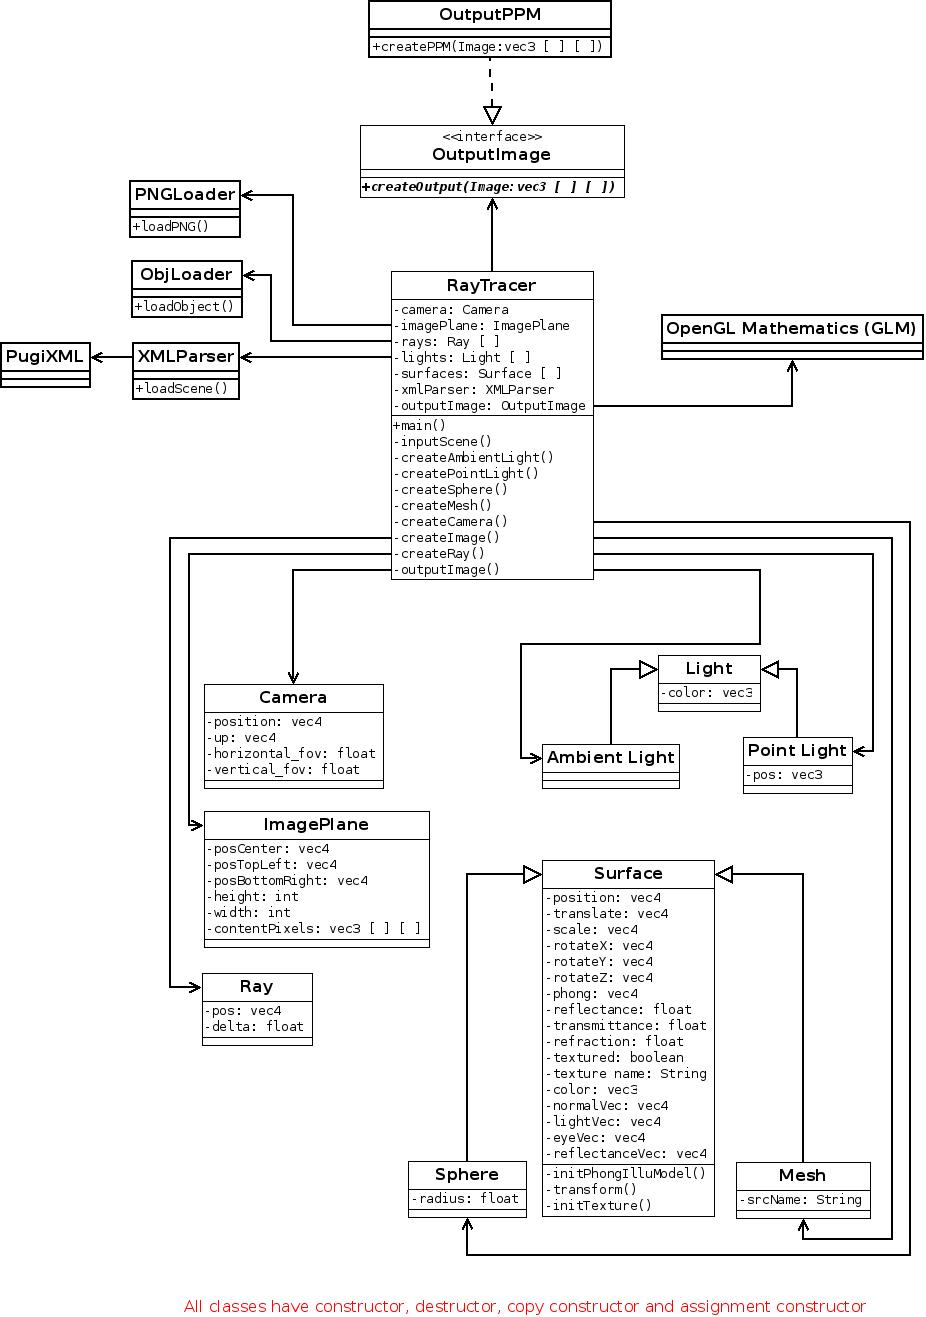
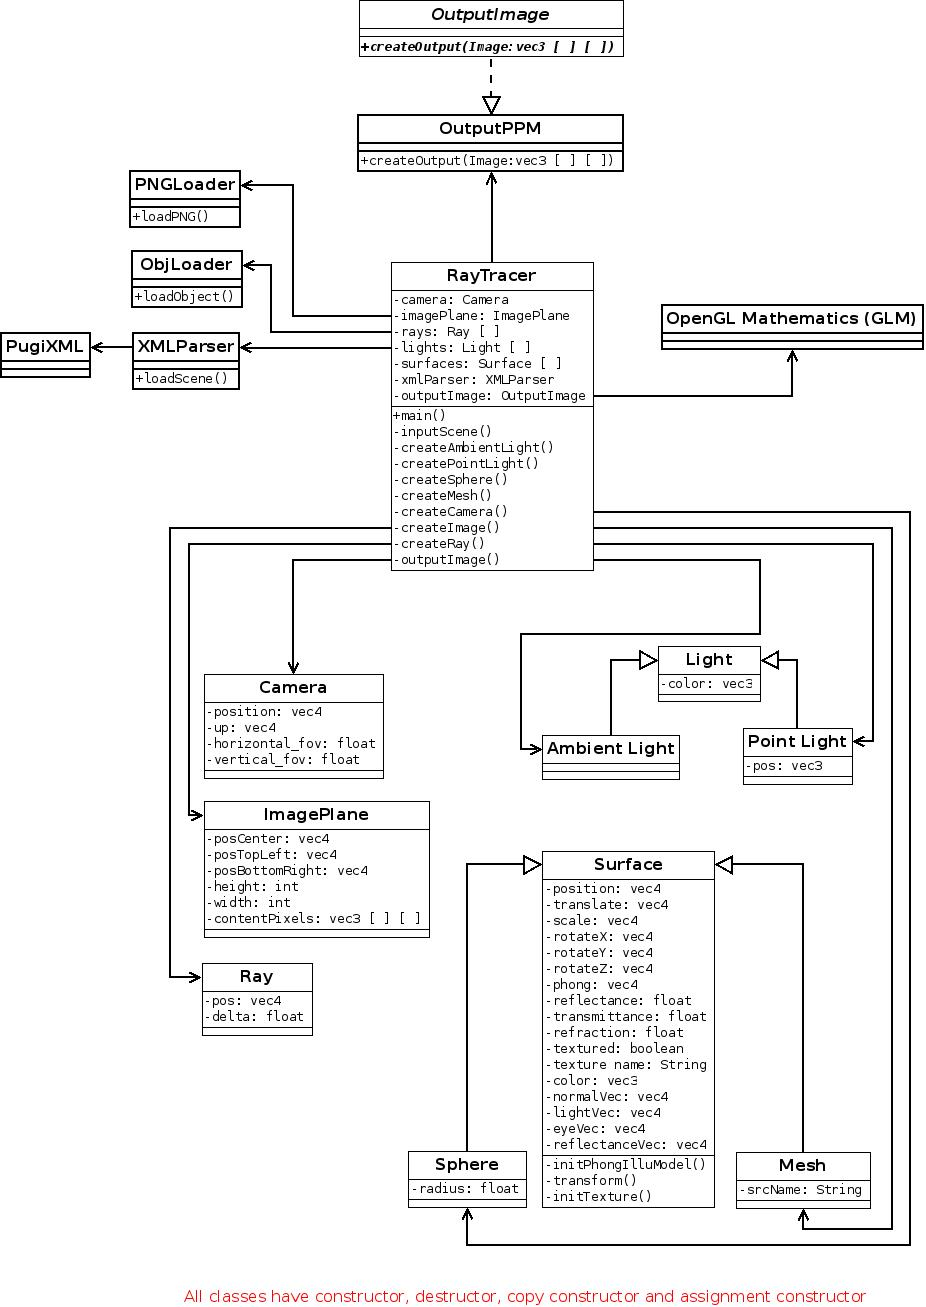
OutputImage (abstract class) and OutputPPM (concrete class) are defined

diff --git a/ray_tracer/RayTracer.cpp b/ray_tracer/RayTracer.cpp
@@ -8,6 +8,7 @@
 #include <iostream>
 #include <fstream>
 #include "RayTracer.h"
+#include "OutputPPM.h"
 using namespace std;
 
 int main() {
@@ -17,18 +18,22 @@ int main() {
 }
 
 void RayTracer::main() {
-	ofstream myfile;
-	myfile.open("example.ppm");
-	cout<<"h";
-	myfile << "P3 \n \
+	cout<<"RayTracer.main()"<<endl;
+
+	OutputPPM outputPPM;
+	outputPPM.createOutput();
+
+	//ofstream myfile;
+	//myfile.open("example.ppm");
+	/*myfile << "P3 \n \
 		# sample.ppm \n \
 		4 4 \n \
 		15 \n \
 		 0  0  0    0  0  0    0  0  0   15  0 15 \n \
 		 0  0  0    0 15  7    0  0  0    0  0  0 \n \
 		 0  0  0    0  0  0    0 15  7    0  0  0 \n \
-		15  0 15    0  0  0    0  0  0    0  0  0";
-	myfile.close();
+		15  0 15    0  0  0    0  0  0    0  0  0";*/
+	//myfile.close();
 }
 
 

diff --git a/ray_tracer/OutputImage.h b/ray_tracer/OutputImage.h
@@ -1,0 +1,22 @@
+/*
+ * OutputImage.h
+ *
+ *  Created on: 13.12.2015
+ *      Author: rustong_pu
+ */
+
+#ifndef OUTPUTIMAGE_H_
+#define OUTPUTIMAGE_H_
+
+using namespace std;
+
+class OutputImage{
+public:
+	OutputImage(){};
+	virtual ~OutputImage(){};
+	virtual void createOutput() = 0;
+};
+
+
+
+#endif /* OUTPUTIMAGE_H_ */

diff --git a/ray_tracer/OutputPPM.h b/ray_tracer/OutputPPM.h
@@ -1,0 +1,21 @@
+/*
+ * OutputPPM.h
+ *
+ *  Created on: 13.12.2015
+ *      Author: rustong_pu
+ */
+
+#ifndef OUTPUTPPM_H_
+#define OUTPUTPPM_H_
+
+#include "OutputImage.h"
+using namespace std;
+
+class OutputPPM : public OutputImage{
+public:
+	virtual void createOutput();
+};
+
+
+
+#endif /* OUTPUTPPM_H_ */

diff --git a/ray_tracer/OutputPPM.cpp b/ray_tracer/OutputPPM.cpp
@@ -1,0 +1,16 @@
+/*
+ * OutputPPM.cpp
+ *
+ *  Created on: 13.12.2015
+ *      Author: rustong_pu
+ */
+
+#include <iostream>
+#include "OutputPPM.h"
+#include "OutputImage.h"
+using namespace std;
+
+void OutputPPM::createOutput(){
+	cout << "outputPPM ready to work!!!"<<endl;
+}
+
